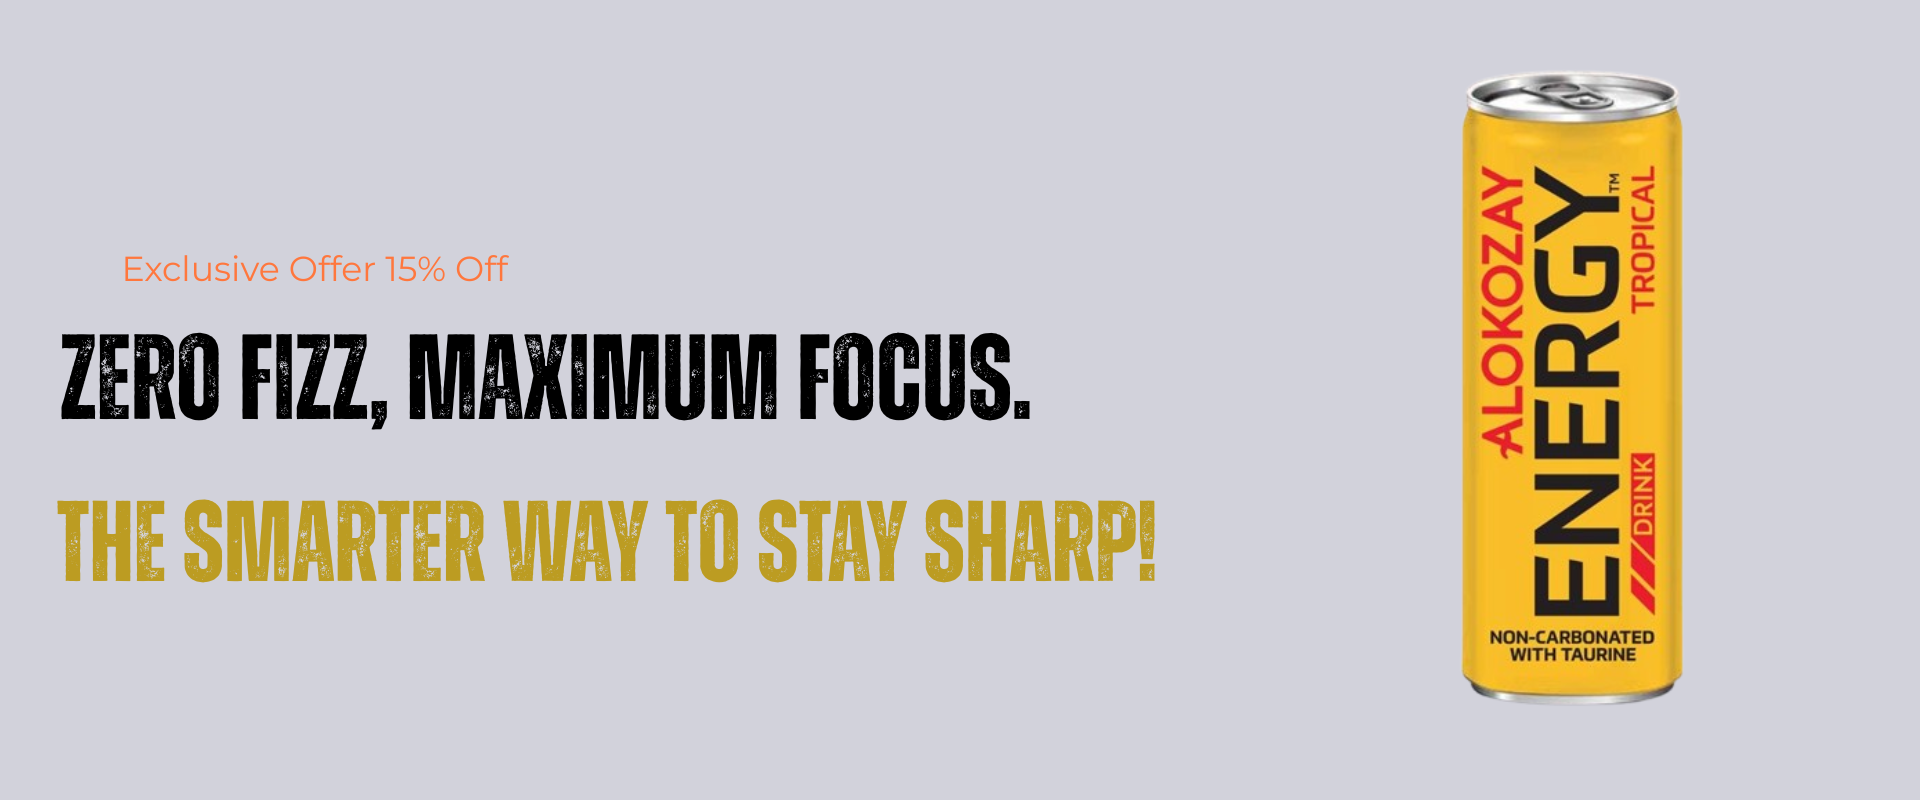
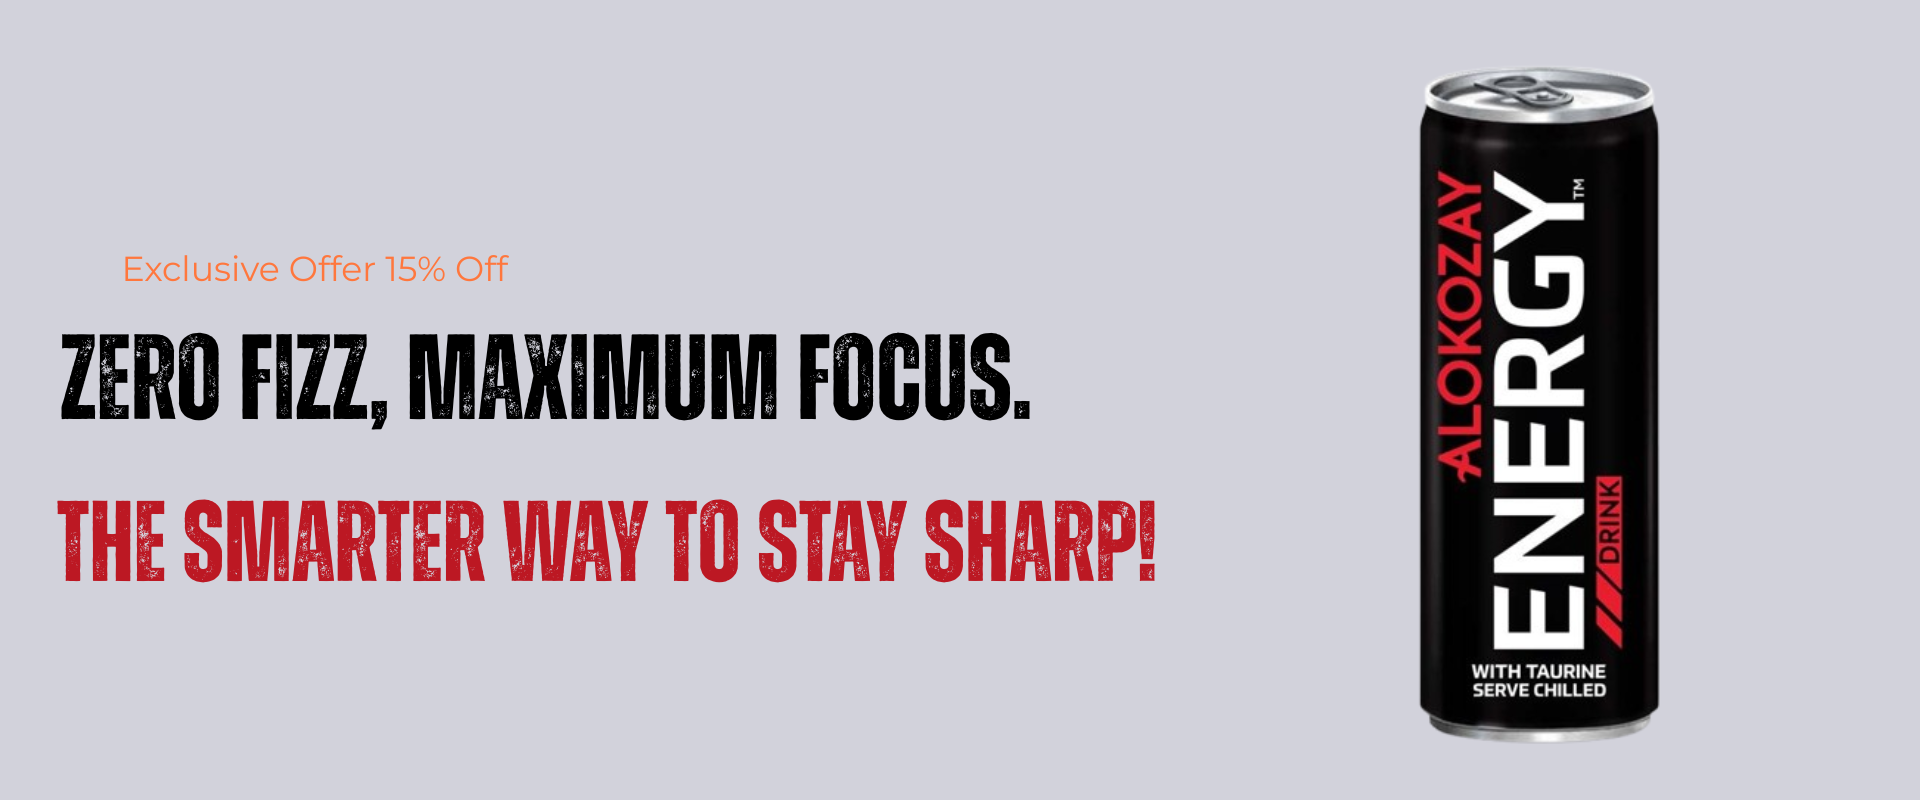
Hero Updated with best sellers

Changed region(s): [[0.7188, 0.0625, 0.875, 0.9375], [0.0312, 0.625, 0.625, 0.75]]

diff --git a/src/pages/Home.tsx b/src/pages/Home.tsx
@@ -20,9 +20,9 @@ const FEATURED_PRODUCTS = [
   },
   {
     id: 2,
-    name: "Shafa Carbonated Pomegranate Drink",
+    name: "Alokozay Energy Drink",
     brand: "Beverage",
-    image: "/images/Shafa_Carbonated_Pomegranate_Drink.jpeg", 
+    image: "/images/alokozay_energy_drink.jpg", 
   },
   {
     id: 3,
